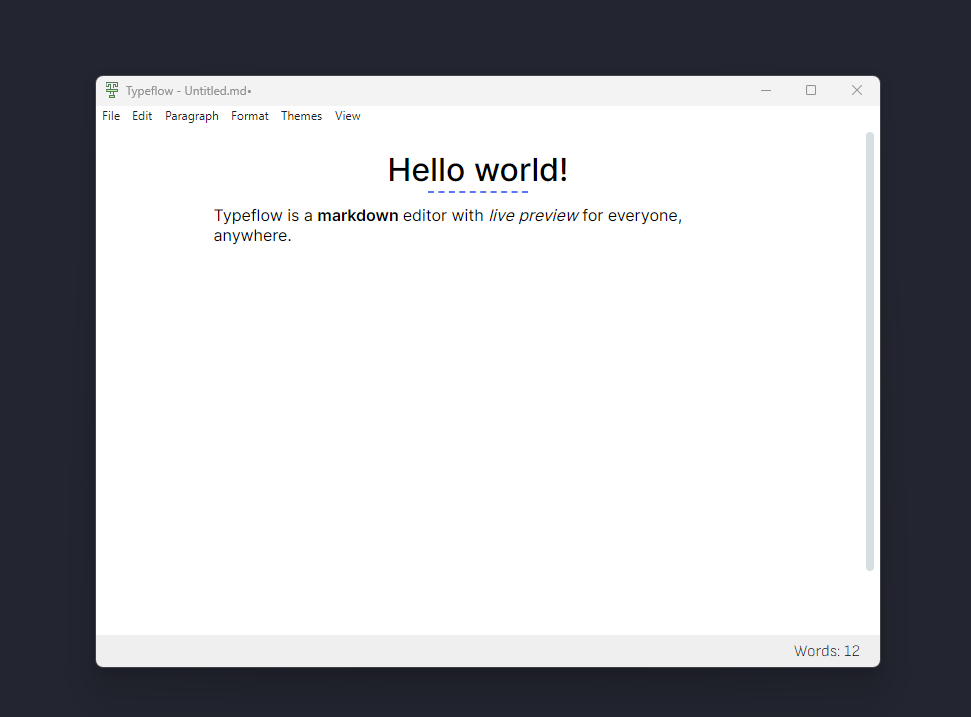
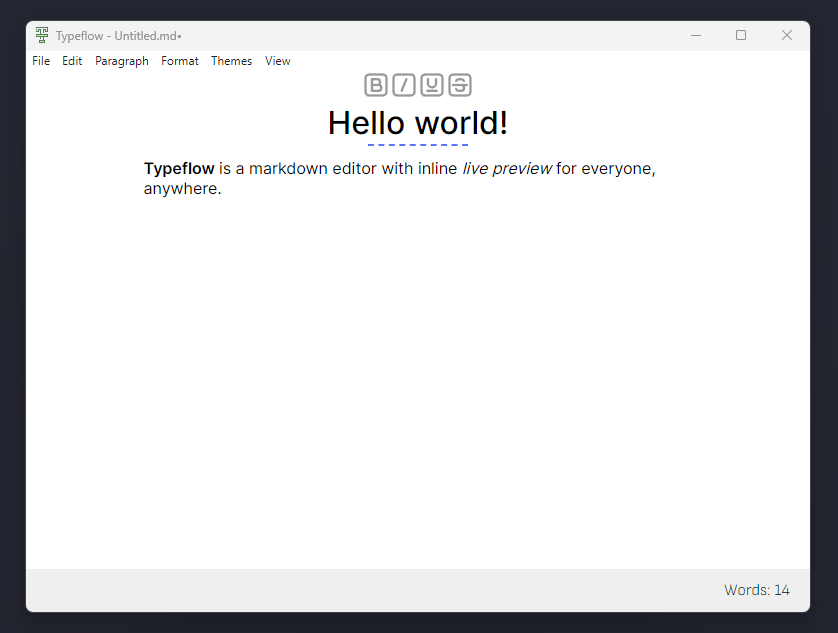
New screenshot, codeBlock.js added, fixes

Changed region(s): [[0.031, 0.03, 0.9928, 0.9905]]

diff --git a/app/format-panel.js b/app/format-panel.js
@@ -6,67 +6,59 @@ let t = document.getElementById("t")
 let boldText = false
 
 document.addEventListener('keydown', (e) => {
-    if(e.ctrlKey && e.code === "KeyB") {
-        if(b.className !== "active") {
+    if (e.ctrlKey && e.code === "KeyB") {
+        if (b.className !== "active") {
             b.className = "active"
             boldText = true
-        }
-        else {
+        } else {
             b.className = ""
             boldText = false
         }
-
-        return
-    }
-    else if(e.ctrlKey && e.code === "KeyI") {
-        if(i.className !== "active") {
+    } else if (e.ctrlKey && e.code === "KeyI") {
+        if (i.className !== "active") {
             i.className = "active"
-        }
-        else {
+        } else {
             i.className = ""
         }
-    }
-    else if(e.ctrlKey && e.code === "KeyU") {
-        if(u.className !== "active") {
+    } else if (e.ctrlKey && e.code === "KeyU") {
+        if (u.className !== "active") {
             u.className = "active"
-        }
-        else {
+        } else {
             u.className = ""
         }
-    }
-    else if(e.ctrlKey && e.code === "KeyT") {
-        if(t.className !== "active") {
+    } else if (e.ctrlKey && e.code === "KeyT") {
+        if (t.className !== "active") {
             t.className = "active"
-        }
-        else {
+        } else {
             t.className = ""
         }
     }
 })
 
 document.addEventListener('input', () => {
+    checkFormat()
+})
+
+document.addEventListener('mouseup', () => {
+    checkFormat()
+})
+
+function checkFormat() {
+    var currentNodeName = document.getSelection().anchorNode.parentNode.nodeName
     var currentNode = document.getSelection().anchorNode
 
-    if(currentNode.parentNode.nodeName === "B") {
+    if (currentNodeName === "B") {
         b.className = "active"
-    }
-    else if(currentNode.parentNode.nodeName === "I") {
+    } else if (currentNodeName === "I") {
         i.className = "active"
-
-        if(currentNode.parentNode.style.fontWeight === "bold") {
-            b.className = "active"
-        }
-    }
-    else if(currentNode.parentNode.nodeName === "U") {
+    } else if (currentNodeName === "U") {
         u.className = "active"
-    }
-    else if(currentNode.parentNode.nodeName === "STRIKE") {
+    } else if (currentNodeName === "STRIKE") {
         t.className = "active"
+    } else {
+        if (b.className === "active") b.className = ""
+        if (i.className === "active") i.className = ""
+        if (u.className === "active") u.className = ""
+        if (t.className === "active") t.className = ""
     }
-    else {
-        if(b.className === "active") b.className = ""
-        if(i.className === "active") i.className = ""
-        if(u.className === "active") u.className = ""
-        if(t.className === "active") t.className = ""
-    }
-})
+}

diff --git a/app/init/main.js b/app/init/main.js
@@ -140,7 +140,7 @@ const createWindow = () => {
                         let focusedContent = webContents.getFocusedWebContents()
                         await focusedContent.executeJavaScript(`
                             var editor = document.getElementById("editor")
-                            document.execCommand('bold')
+                            document.execCommand('bold', false, null)
                         `)
                     }
                 },
@@ -151,7 +151,7 @@ const createWindow = () => {
                         let focusedContent = webContents.getFocusedWebContents()
                         await focusedContent.executeJavaScript(`
                             var editor = document.getElementById("editor")
-                            document.execCommand('italic')
+                            document.execCommand('italic', false, null)
                         `)
                     }
                 },
@@ -162,7 +162,7 @@ const createWindow = () => {
                         let focusedContent = webContents.getFocusedWebContents()
                         await focusedContent.executeJavaScript(`
                             var editor = document.getElementById("editor")
-                            document.execCommand('underline')
+                            document.execCommand('underline', false, null)
                         `)
                     }
                 },
@@ -201,6 +201,9 @@ const createWindow = () => {
                 },
                 {
                     type: "separator"
+                },
+                {
+                    role: "toggleDevTools"
                 }
             ]
         }

diff --git a/app/esbuild/index.js b/app/esbuild/index.js
@@ -23524,14 +23524,6 @@ var require_turndown_cjs = __commonJS({
         }
       }
     };
-    rules.underline = {
-      filter: "u",
-      replacement: function(content, node, options) {
-        if (!content.trim())
-          return "";
-        return "<u>" + content + "</u>";
-      }
-    };
     rules.listItem = {
       filter: "li",
       replacement: function(content, node, options) {
@@ -24112,10 +24104,32 @@ var td = new TurndownService({
 td.escape = function(text) {
   return text;
 };
+td.addRule("underline", {
+  filter: ["u"],
+  replacement: function(content) {
+    return "<u>" + content + "</u>";
+  }
+});
+td.addRule("strikethrough", {
+  filter: ["strike", "del"],
+  replacement: function(content) {
+    return "<strike>" + content + "</strike>";
+  }
+});
 var sourceCode = document.getElementById("source-code");
 var editor = document.getElementById("editor");
 editor.addEventListener("input", () => {
   sourceCode.value = td.turndown(editor.innerHTML).replace(/"/g, "&quot;");
+});
+editor.addEventListener("keydown", (e) => {
+  if (e.code === "KeyZ") {
+    var elems = document.querySelectorAll("i[style], u[style], b[style], strike[style]");
+    for (let i = 0; i < elems.length; i++) {
+      var elem = elems[i];
+      var styles = elem.getAttribute("style");
+      console.log(styles);
+    }
+  }
 });
 /*! Bundled license information:
 

diff --git a/app/renderer/index.js b/app/renderer/index.js
@@ -13,9 +13,37 @@ td.escape = function (text) {
     return text;
 }
 
+td.addRule('underline', {
+    filter: ['u'],
+    replacement: function(content) {
+        return '<u>' + content + '</u>'
+    }
+})
+
+td.addRule('strikethrough', {
+    filter: ['strike', 'del'],
+    replacement: function(content) {
+        return '<strike>' + content + '</strike>'
+    }
+})
+
 let sourceCode = document.getElementById("source-code")
 let editor = document.getElementById("editor")
 
 editor.addEventListener('input', () => {
     sourceCode.value = td.turndown(editor.innerHTML).replace(/"/g, '&quot;')
+})
+
+// Search all tags with style (nested tags issue)
+editor.addEventListener('keydown', (e) => {
+    if(e.code === "KeyZ") {
+        var elems = document.querySelectorAll('i[style], u[style], b[style], strike[style]')
+
+        for (let i = 0; i < elems.length; i++) {
+            var elem = elems[i]
+
+            var styles = elem.getAttribute("style")
+            console.log(styles)
+        }
+    }
 })

diff --git a/app/renderer/codeBlock.js b/app/renderer/codeBlock.js
@@ -1,0 +1,23 @@
+var editor = document.getElementById("editor")
+
+editor.addEventListener('keydown', (e) => {
+    var node = Editor.getCurrentNode()
+
+    if(node.parentNode.nodeName === "CODE" && e.code === "ArrowDown") {
+        var div = document.createElement("div")
+        div.appendChild(document.createElement("br"))
+        node.parentNode.parentNode.parentNode.appendChild(div)
+    }
+    else if(node.parentNode.nodeName === "CODE" && e.code === "Enter") {
+        e.preventDefault()
+
+        node.parentElement.innerText += "\n\n"
+
+        let range = document.createRange();
+        let sel = window.getSelection();
+        range.setStart(Editor.getCurrentNode(), 2);
+        range.collapse(true);
+        sel.removeAllRanges();
+        sel.addRange(range);
+    }
+})

diff --git a/style/root.css b/style/root.css
@@ -16,19 +16,18 @@ html, body {
 
 @media only screen and (min-width: 1000px) {
     .editor {
-        padding-left: 35%;
-        padding-right: 35%;
+        padding-left: 25%;
+        padding-right: 25%;
     }
 }
 
 .source-code-view {
-    background-color: #e8e8e8;
+    background-color: #ececec;
     border: none;
 
-    height: 85%;
+    height: 90%;
     width: 70%;
-    margin: 1.5em auto 0 auto;
-    overflow-x: hidden;
+    margin: 2em auto 0 auto;
 }
 
 .bottom-panel {

diff --git a/index.html b/index.html
@@ -24,6 +24,7 @@
 <script src="app/esbuild/index.js"></script>
 <script src="app/renderer/checkChanges.js"></script>
 <script src="app/renderer/unorderedList.js"></script>
+<script src="app/renderer/codeBlock.js"></script>
 <script src="app/renderer/counter.js"></script>
 <script src="app/format-panel.js"></script>
 <script src="app/editor.js"></script>

diff --git a/themes/typeflow-classic.css b/themes/typeflow-classic.css
@@ -169,7 +169,7 @@ code {
     font-family: 'JetBrains Mono', sans-serif;
     font-weight: 300;
 
-    padding: 0.2em 0.4em;
+    padding: 1em;
     font-size: 85%;
     background-color: #384d39;
     border-radius: 3px;

diff --git a/app/editor.js b/app/editor.js
@@ -12,4 +12,8 @@ class Editor {
             currentNode.lastChild.remove()
         }
     }
+
+    static getCurrentNode() {
+        return document.getSelection().anchorNode
+    }
 }
